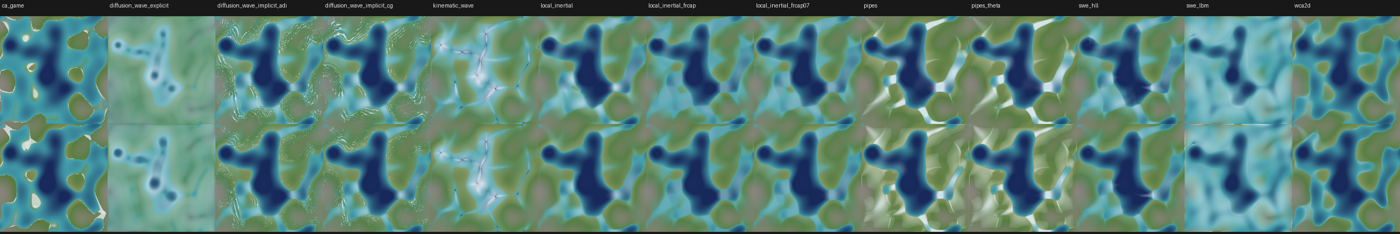
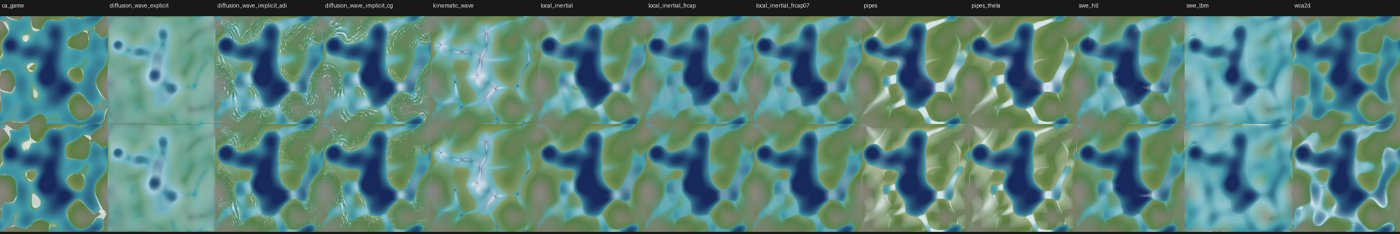
results: rain_groundwater rows re-run (rain at step midpoint); kinematic out of the headline

diff --git a/results/results.md b/results/results.md
@@ -17,18 +17,19 @@ Grid 400^2, median of 30 steps, single thread. The pipes kernel has no friction 
 | solver | ms/step numpy | dt s | numpy ms/tick | worst vol err | lake drift m | settled | blow-ups | errors | capped |
 |---|---|---|---|---|---|---|---|---|---|
 | ca_game | 3.58 | 0.5 | 0.119 | 3.1e-15 | 4.4e-16 | 1/9 | 0 | 0 | 0 |
-| diffusion_wave_explicit | 9.25 | 4.25e-05 | 3.63e+03 | 1.4e-15 | 4.4e-16 | 0/9 | 0 | 0 | 9 |
+| diffusion_wave_explicit | 9.25 | 4.25e-05 | 3.63e+03 | 7.9e-16 | 4.4e-16 | 0/9 | 0 | 0 | 9 |
 | diffusion_wave_implicit_adi | 905 | 5 | 3.02 | 6.9e-16 | 5.9e-11 | 1/9 | 0 | 0 | 0 |
 | diffusion_wave_implicit_cg | 2.77e+03 | 5 | 9.22 | 7.3e-16 | 2.2e-16 | 1/9 | 0 | 0 | 6 |
-| kinematic_wave | 8.05 | 0.0576 | 2.72 | 2.6e-15 | 1.0e+04 | 1/9 | 5 | 0 | 0 |
 | local_inertial | 8.27 | 0.192 | 0.744 | 2.6e-16 | 8.9e-16 | 1/9 | 0 | 0 | 0 |
 | local_inertial_frcap | 8.34 | 0.192 | 0.745 | 6.6e-16 | 8.9e-16 | 1/9 | 0 | 0 | 0 |
-| local_inertial_frcap07 | 8.02 | 0.192 | 0.747 | 3.3e-16 | 8.9e-16 | 1/9 | 0 | 0 | 0 |
+| local_inertial_frcap07 | 8.02 | 0.192 | 0.747 | 3.0e-16 | 8.9e-16 | 1/9 | 0 | 0 | 0 |
 | pipes | 9.46 | 0.152 | 1.04 | 6.7e-15 | 3.6e-15 | 1/9 | 0 | 0 | 0 |
 | pipes_theta | 10.3 | 0.152 | 1.14 | 6.7e-15 | 4.4e-16 | 1/9 | 0 | 0 | 0 |
 | swe_hll | 18.4 | 0.135 | 2.53 | 5.9e-16 | 8.9e-16 | 1/9 | 0 | 0 | 0 |
 | swe_lbm | 56 | 0.0965 | 14.6 | 4.5e-15 | 4.4e-16 | 1/9 | 0 | 0 | 7 |
 | wca2d | 15.6 | 0.251 | 1.62 | 3.3e-15 | 2.2e-16 | 1/9 | 0 | 0 | 0 |
+
+Left out: kinematic_wave (bed-slope only: no flat-bed flow, no backwater; blows up under level-setters).
 
 ### Water solvers at 500 x 500 (median over water scenes)
 
@@ -36,17 +37,18 @@ Grid 400^2, median of 30 steps, single thread. The pipes kernel has no friction 
 |---|---|---|---|---|---|---|---|---|---|
 | ca_game | 9.73 | 0.5 | 0.324 | 1.6e-15 | 4.4e-16 | 1/9 | 0 | 0 | 0 |
 | diffusion_wave_explicit | 24.9 | 4.25e-05 | 9.47e+03 | 1.8e-15 | 4.4e-16 | 0/9 | 0 | 0 | 9 |
-| diffusion_wave_implicit_adi | 2.48e+03 | 5 | 8.27 | 4.1e-16 | 3.0e-11 | 1/9 | 0 | 0 | 5 |
+| diffusion_wave_implicit_adi | 2.48e+03 | 5 | 8.27 | 5.0e-16 | 3.0e-11 | 1/9 | 0 | 0 | 4 |
 | diffusion_wave_implicit_cg | 9.64e+03 | 5 | 32.1 | 2.6e-16 | 4.4e-16 | 0/9 | 0 | 0 | 9 |
-| kinematic_wave | 21 | 0.0777 | 4.15 | 9.9e-16 | 1.0e+04 | 1/9 | 6 | 0 | 0 |
-| local_inertial | 20.5 | 0.192 | 1.65 | 6.3e-16 | 8.9e-16 | 1/9 | 0 | 0 | 0 |
+| local_inertial | 20.5 | 0.192 | 1.65 | 2.5e-16 | 8.9e-16 | 1/9 | 0 | 0 | 0 |
 | local_inertial_frcap | 20.4 | 0.192 | 1.64 | 4.7e-16 | 8.9e-16 | 1/9 | 0 | 0 | 0 |
-| local_inertial_frcap07 | 20.2 | 0.192 | 1.68 | 7.5e-16 | 8.9e-16 | 1/9 | 0 | 0 | 0 |
+| local_inertial_frcap07 | 20.2 | 0.192 | 1.68 | 6.2e-16 | 8.9e-16 | 1/9 | 0 | 0 | 0 |
 | pipes | 23 | 0.152 | 2.53 | 6.7e-15 | 2.7e-15 | 1/9 | 0 | 0 | 0 |
 | pipes_theta | 26.1 | 0.152 | 2.86 | 6.7e-15 | 8.9e-16 | 1/9 | 0 | 0 | 0 |
-| swe_hll | 48.6 | 0.135 | 5.86 | 1.2e-15 | 8.9e-16 | 1/9 | 0 | 0 | 5 |
+| swe_hll | 48.6 | 0.135 | 5.86 | 1.2e-15 | 8.9e-16 | 1/9 | 0 | 0 | 4 |
 | swe_lbm | 140 | 0.118 | 19.8 | 1.6e-15 | 4.4e-16 | 0/9 | 0 | 0 | 9 |
 | wca2d | 38.3 | 0.254 | 2.55 | 1.8e-15 | 4.4e-16 | 1/9 | 0 | 0 | 1 |
+
+Left out: kinematic_wave (bed-slope only: no flat-bed flow, no backwater; blows up under level-setters).
 
 ### numpy ms/step by size (median over scenes; timing phase, sequential, one thread)
 
@@ -201,19 +203,19 @@ Reference swe_hll (matches Stoker's analytic dam break to 0.1%, tests/test_water
 | pit_dig | swe_hll | 8.24 | 0.162 | 1016 | 150 |  | 5.8e-03 | 1.1e-16 | 0.0e+00 | no | no |  |
 | pit_dig | swe_lbm | 27.7 | 0.151 | 2815 | 42.3 |  | 7.7e-02 | 1.3e-16 | 0.0e+00 | no | yes |  |
 | pit_dig | wca2d | 7.22 | 0.184 | 1222 | 150 |  | 8.0e+00 | 2.9e-16 | 0.0e+00 | no | no |  |
-| rain_groundwater | ca_game | 1.79 | 0.5 | 240 | 120 |  | 1.3e-02 | 7.6e-16 | 0.0e+00 | no | no |  |
-| rain_groundwater | diffusion_wave_explicit | 5.58 | 0.00217 | 9865 | 9.89 |  | 6.7e-02 | 3.2e-15 | 0.0e+00 | no | yes |  |
-| rain_groundwater | diffusion_wave_implicit_adi | 460 | 5 | 24 | 120 |  | 5.2e-02 | 5.9e-16 | 0.0e+00 | no | no |  |
-| rain_groundwater | diffusion_wave_implicit_cg | 1.18e+03 | 5 | 24 | 120 |  | 3.8e-02 | 4.5e-16 | 0.0e+00 | no | no |  |
-| rain_groundwater | kinematic_wave | 4.3 | 0.165 | 2246 | 120 |  | 7.2e+01 | 5.9e-16 | 0.0e+00 | no | no |  |
+| rain_groundwater | ca_game | 1.79 | 0.5 | 240 | 120 |  | 1.4e-02 | 1.1e-15 | 0.0e+00 | no | no |  |
+| rain_groundwater | diffusion_wave_explicit | 5.58 | 0.00217 | 13017 | 10.7 |  | 6.0e-02 | 3.4e-15 | 0.0e+00 | no | yes |  |
+| rain_groundwater | diffusion_wave_implicit_adi | 460 | 5 | 24 | 120 |  | 6.3e-02 | 4.2e-16 | 0.0e+00 | no | no |  |
+| rain_groundwater | diffusion_wave_implicit_cg | 1.18e+03 | 5 | 24 | 120 |  | 2.8e-02 | 0.0e+00 | 0.0e+00 | no | no |  |
+| rain_groundwater | kinematic_wave | 4.3 | 0.165 | 2246 | 120 |  | 7.2e+01 | 2.9e-16 | 0.0e+00 | no | no |  |
 | rain_groundwater | local_inertial | 4.37 | 0.36 | 510 | 120 |  | 2.2e-02 | 2.8e-16 | 0.0e+00 | no | no |  |
 | rain_groundwater | local_inertial_frcap | 4.57 | 0.361 | 504 | 120 |  | 8.1e-03 | 5.4e-16 | 0.0e+00 | no | no |  |
-| rain_groundwater | local_inertial_frcap07 | 4.66 | 0.36 | 507 | 120 |  | 8.3e-03 | 8.3e-16 | 0.0e+00 | no | no |  |
-| rain_groundwater | pipes | 4.92 | 0.152 | 791 | 120 |  | 9.5e-03 | 1.2e-15 | 0.0e+00 | no | no |  |
-| rain_groundwater | pipes_theta | 5.24 | 0.152 | 791 | 120 |  | 1.0e-02 | 9.3e-16 | 0.0e+00 | no | no |  |
+| rain_groundwater | local_inertial_frcap07 | 4.66 | 0.36 | 507 | 120 |  | 8.6e-03 | 5.5e-16 | 0.0e+00 | no | no |  |
+| rain_groundwater | pipes | 4.92 | 0.152 | 791 | 120 |  | 8.9e-03 | 1.7e-15 | 0.0e+00 | no | no |  |
+| rain_groundwater | pipes_theta | 5.24 | 0.152 | 791 | 120 |  | 9.8e-03 | 3.1e-16 | 0.0e+00 | no | no |  |
 | rain_groundwater | swe_hll | 9.12 | 0.247 | 710 | 120 |  | 7.9e-03 | 5.6e-16 | 0.0e+00 | no | no |  |
-| rain_groundwater | swe_lbm | 28.3 | 0.191 | 1868 | 36 |  | 1.4e-02 | 3.1e-16 | 0.0e+00 | no | yes |  |
-| rain_groundwater | wca2d | 8.38 | 0.415 | 508 | 120 |  | 2.6e-02 | 6.4e-16 | 0.0e+00 | no | no |  |
+| rain_groundwater | swe_lbm | 28.3 | 0.191 | 2171 | 36.6 |  | 1.2e-02 | 7.6e-16 | 0.0e+00 | no | yes |  |
+| rain_groundwater | wca2d | 8.38 | 0.415 | 509 | 120 |  | 1.7e-01 | 9.0e-16 | 0.0e+00 | no | no |  |
 | ripples | linear_wave | 0.762 | 0.0636 | 315 | 20 |  |  |  |  | no | no |  |
 | river | ca_game | 1.83 | 0.5 | 240 | 120 |  | 2.0e-02 | 1.1e-15 | 0.0e+00 | no | no |  |
 | river | diffusion_wave_explicit | 4.89 | 0.000199 | 10374 | 2.81 |  | 2.8e-02 | 1.7e-16 | 0.0e+00 | no | yes |  |
